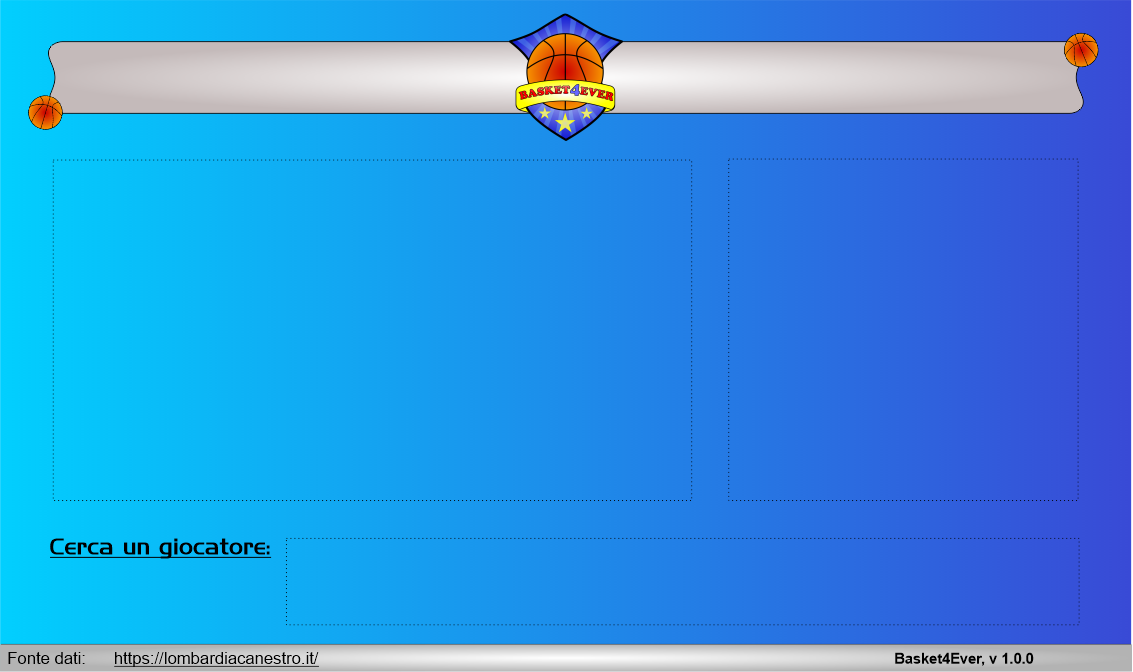
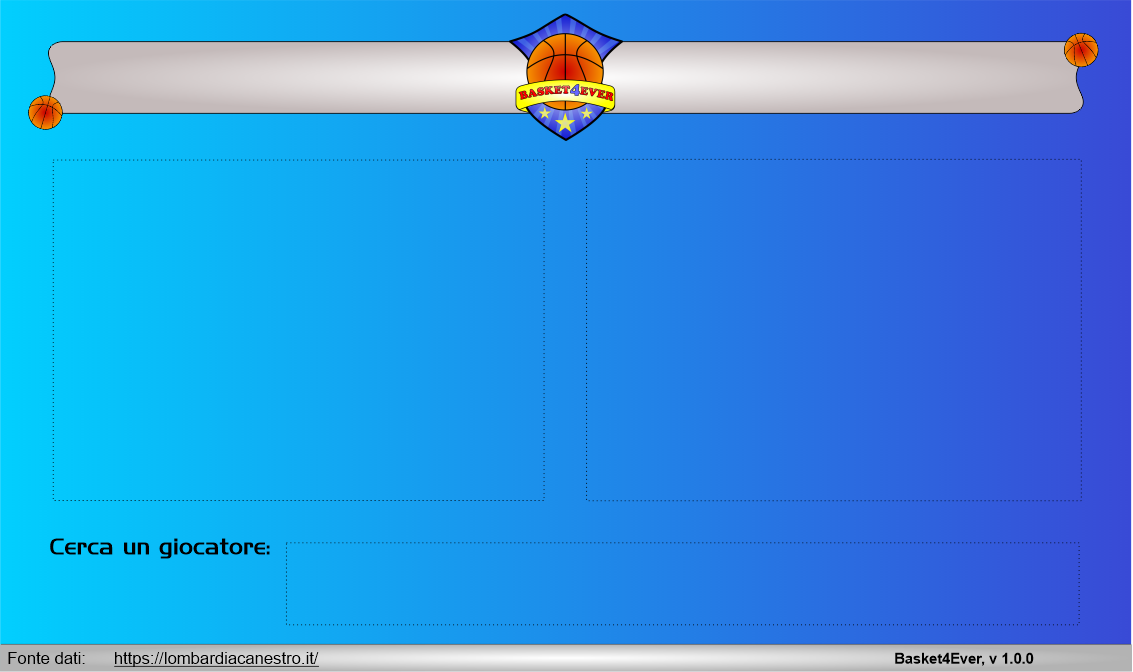
Gui Improvements
Bugs fixed and improved the JTables look.

diff --git a/src/bfe/FrameB.java b/src/bfe/FrameB.java
@@ -17,7 +17,6 @@ import java.util.ArrayList;
 import java.util.Arrays;
 import java.util.Date;
 import java.util.List;
-
 import javax.swing.BorderFactory;
 import javax.swing.ImageIcon;
 import javax.swing.JButton;
@@ -115,7 +114,7 @@ public class FrameB extends JFrame {
 	private JTable individualTb = new JTable();
 
 	private DefaultTableModel teamsModel = new DefaultTableModel(new Object[][] {},
-			new String[] { "#", "Squadra", "Punti", "Giocate", "Vinte", "Perse", "Punti fatti", "Punti subiti" });
+			new String[] { "#", "Squadra", "Punti", "Giocate", "Vinte", "Perse", "PF", "PS" });
 
 	private DefaultTableModel playersModel1 = new DefaultTableModel(new Object[][] {},
 			new String[] { "#", "Giocatore", "Squadra", "PTS", "PPG", "PG" });
@@ -207,7 +206,7 @@ public class FrameB extends JFrame {
 		adjustTables();
 		buildUI();
 		eventsHandling();
-		fillTables();
+		//fillTables();
 
 	}
 
@@ -247,7 +246,7 @@ public class FrameB extends JFrame {
 		overviewLab.setBounds(74, 55, 435, 42);
 		overviewLab.setText(CodeTranslator.translateCode(getCode()));
 		overviewLab.setToolTipText("Salvattaggio effettuato in data " + VISIBLE_DATE_FORMATTER.format(date));
-		Utils.fixLabelFontSize(overviewLab, true);
+		Utils.fixLabelFontSize(overviewLab);
 
 		backLab.setBounds(0, 0, 1130, 670);
 		link.setBounds(109, 648, 216, 20);
@@ -330,7 +329,7 @@ public class FrameB extends JFrame {
 		viewOnLcBut.setFocusable(false);
 		viewOnLcBut.setBounds(745, 52, 57, 57);
 
-		teamsPane.setBounds(52, 158, 641, 343);
+		teamsPane.setBounds(52, 158, 493, 345);
 		teamsPane.setLayout(new BorderLayout());
 		teamsPane.setBorder(raisedBevel);
 
@@ -341,9 +340,9 @@ public class FrameB extends JFrame {
 		threePane.setLayout(new BorderLayout());
 		individualPane.setLayout(new BorderLayout());
 
-		tabbedPane.setBounds(728, 135, 352, 366);
+		tabbedPane.setBounds(586, 135, 496, 368);
 		getPlayerTf.setBounds(52, 577, 156, 30);
-		individualPane.setBounds(286, 536, 795, 89);
+		individualPane.setBounds(286, 540, 796, 85);
 
 	}
 
@@ -358,8 +357,6 @@ public class FrameB extends JFrame {
 		}
 
 		teamsTb.getColumnModel().getColumn(1).setPreferredWidth(200);
-
-		teamsTb.setRowHeight(60);
 		teamsTb.setColumnSelectionAllowed(false);
 		teamsTb.setRowSelectionAllowed(false);
 		teamsTb.getTableHeader().setReorderingAllowed(false);
@@ -371,7 +368,7 @@ public class FrameB extends JFrame {
 			overallTb.getColumnModel().getColumn(i).setCellRenderer(cellRenderer);
 		}
 
-		overallTb.setRowHeight(31);
+		overallTb.setRowHeight(32);
 		overallTb.setColumnSelectionAllowed(false);
 		overallTb.setRowSelectionAllowed(false);
 		overallTb.getTableHeader().setReorderingAllowed(false);
@@ -383,7 +380,7 @@ public class FrameB extends JFrame {
 			tlTb.getColumnModel().getColumn(i).setCellRenderer(cellRenderer);
 		}
 
-		tlTb.setRowHeight(31);
+		tlTb.setRowHeight(32);
 		tlTb.setColumnSelectionAllowed(false);
 		tlTb.setRowSelectionAllowed(false);
 		tlTb.getTableHeader().setReorderingAllowed(false);
@@ -395,7 +392,7 @@ public class FrameB extends JFrame {
 			twoTb.getColumnModel().getColumn(i).setCellRenderer(cellRenderer);
 		}
 
-		twoTb.setRowHeight(31);
+		twoTb.setRowHeight(32);
 		twoTb.setColumnSelectionAllowed(false);
 		twoTb.setRowSelectionAllowed(false);
 		twoTb.getTableHeader().setReorderingAllowed(false);
@@ -407,7 +404,7 @@ public class FrameB extends JFrame {
 			threeTb.getColumnModel().getColumn(i).setCellRenderer(cellRenderer);
 		}
 
-		threeTb.setRowHeight(31);
+		threeTb.setRowHeight(32);
 		threeTb.setColumnSelectionAllowed(false);
 		threeTb.setRowSelectionAllowed(false);
 		threeTb.getTableHeader().setReorderingAllowed(false);

diff --git a/src/bfe/Utils.java b/src/bfe/Utils.java
@@ -3,13 +3,14 @@ package bfe;
 import java.awt.Font;
 
 import javax.swing.JLabel;
+import javax.swing.JTable;
 
 public final class Utils {
 	
-	private final static Font DEFAULT_FONT = new Font("Arial", Font.BOLD, 20);
-
+	private final static Font DEFAULT_FONT = new Font("Arial", Font.ITALIC, 10);
+	
 	private Utils() {
-		// this class cannot be intantiated
+		// this class cannot be instantiated
 	}
 
 	public static final String capitalizeString(String input) {
@@ -27,25 +28,38 @@ public final class Utils {
 
 	}
 
-	public static final void fixLabelFontSize(JLabel label, boolean firstExecuted) {
+	public static final void fixLabelFontSize(JLabel label) {
 		
-		Font initialLabelFont = firstExecuted == true ? DEFAULT_FONT : label.getFont();
+		String labelText = label.getText();
 		
-		String initialLabelText = label.getText();
-
-		int stringWidth = label.getFontMetrics(initialLabelFont).stringWidth(initialLabelText);
+		int stringWidth = label.getFontMetrics(DEFAULT_FONT).stringWidth(labelText);
 		int componentWidth = label.getWidth();
 
 		double widthRatio = (double) componentWidth / (double) stringWidth;
 
-		int newFontSize = (int) (initialLabelFont.getSize() * widthRatio);
+		int newFontSize = (int) (DEFAULT_FONT.getSize() * widthRatio);
 		int componentHeight = label.getHeight();
 
 		int fontSizeToUse = Math.min(newFontSize, componentHeight);
 
-		Font result = new Font(initialLabelFont.getName(), Font.BOLD, fontSizeToUse);
-		label.setFont(result);
+		label.setFont(new Font(DEFAULT_FONT.getName(), Font.BOLD, fontSizeToUse));
+		
+	}
+	
+	public final static int[] fixRowHeights (int tableHeight, JTable table) {
+		
+		int[] results = new int[2]; // 1) rowHeight 2) lastRowHeight
 
+		int rows = table.getRowCount();
+		
+		int rowHeight = tableHeight / rows;
+		int remainingSpace = tableHeight % rows;
+		
+		results[0] = rowHeight;
+		results[1] = rowHeight + remainingSpace;
+				
+		return results;
+			
 	}
 	
 }

diff --git a/src/bfe/Main.java b/src/bfe/Main.java
@@ -12,8 +12,8 @@ public class Main { // ricordati di sistemare i tooltiptext ed i final e i null 
 
 				try {
 
-					FrameA frame = new FrameA();
-					//FrameB frame = new FrameB("mi4qQ", null, null, null, null, null, null, null, null);
+					//FrameA frame = new FrameA();
+					FrameB frame = new FrameB("mi4qQ", null, null, null, null, null, null, null, null);
 					frame.setVisible(true);
 				} catch (Exception e) {
 					JOptionPane.showMessageDialog(null, "Errore nell'apertura dell'interfaccia\n" + e);

diff --git a/src/bfe/LoadDatas.java b/src/bfe/LoadDatas.java
@@ -137,7 +137,7 @@ public class LoadDatas implements ActionListener {
 
 		frame.getOverViewLab().setText(CodeTranslator.translateCode(frame.getCode()));
 		frame.getOverViewLab().setToolTipText("Salvattaggio effettuato in data " + frame.getVisibleDateFormatter().format(frame.getDate()));
-		Utils.fixLabelFontSize(frame.getOverViewLab(), false);
+		Utils.fixLabelFontSize(frame.getOverViewLab());
 		
 		frame.fillTables();
 		frame.getIndividualModel().setRowCount(0);

diff --git a/src/bfe/FillTables.java b/src/bfe/FillTables.java
@@ -49,6 +49,11 @@ public class FillTables {
 			frame.getTeamsModel().addRow(row);
 
 		}
+		
+		int[] sizes = Utils.fixRowHeights(321, frame.getTeamsTb());
+		
+		frame.getTeamsTb().setRowHeight(sizes[0]);
+		frame.getTeamsTb().setRowHeight(frame.getTeamsTb().getRowCount() - 1, sizes[1]);
 
 	}
 
